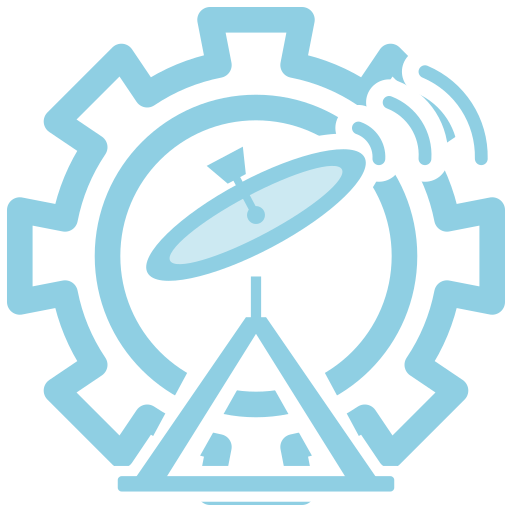
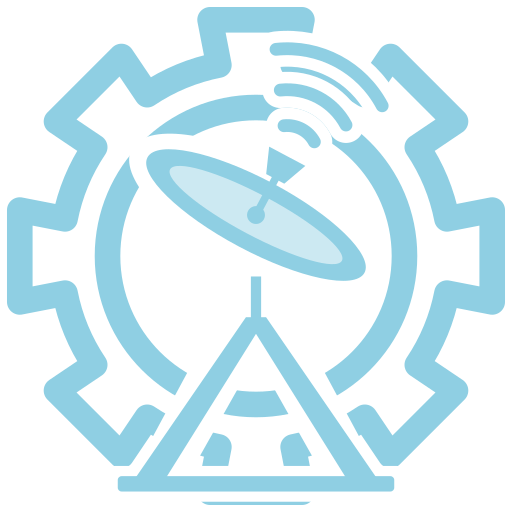
The dish faces its signal (#82)
## Summary

The brand's dish glyph aimed up and to the left while its signal arcs
sat at the upper right. The set was redrawn in Claude Design ("Dish Ray
Alignment", variant B, move the dish): the reflector is mirrored to +28°
and the arcs become concentric on the feed horn, aimed down the
boresight. Base, pole and gear are unchanged.

- The eight state glyphs under `resources/brand` are the design's files
with their C2PA provenance `<metadata>` block removed.
- The app mark (`resources/brand/dish-logo.svg`, `packaging/dish.svg`,
the scalable hicolor icon) takes the same geometry: reflector +28°, halo
cut 14, the three new arcs.
- `packaging/dish.png` (the 512 hicolor icon; the rest of the ladder is
rendered from the SVG at build time) and the two tray PNGs are
re-rendered from the mark with the website's sharp pipeline (density
384, contain, transparent). The previous files had the same geometry as
a sharp render and differed only in edge anti-aliasing.
- The animated glyphs still carry no SMIL, and BrandGlyph keeps falling
back to the family base for `-animated` names, so nothing changes in how
the app draws them.
- CHANGELOG: a new Unreleased section above 2.2.0.

The same change lands in the other four repos on a branch of the same
name (`feat/dish-faces-its-signal`); the eight glyph files are
byte-identical across them.

Changed region(s): [[0.25, 0.0625, 0.9688, 0.5625]]

diff --git a/CHANGELOG.md b/CHANGELOG.md
@@ -16,6 +16,15 @@ the repos share a version number.
 
 ---
 
+## [Unreleased]
+
+### Changed
+
+- **The dish faces its signal.** The dish glyph aimed up and to the left while
+  the signal arcs sat at the upper right. The reflector now points at the
+  signal in every state glyph and in the app mark, so the launcher icon, the
+  tray icon and the window read the same way.
+
 ## [2.2.0] - 2026-10-04
 
 ### Added
